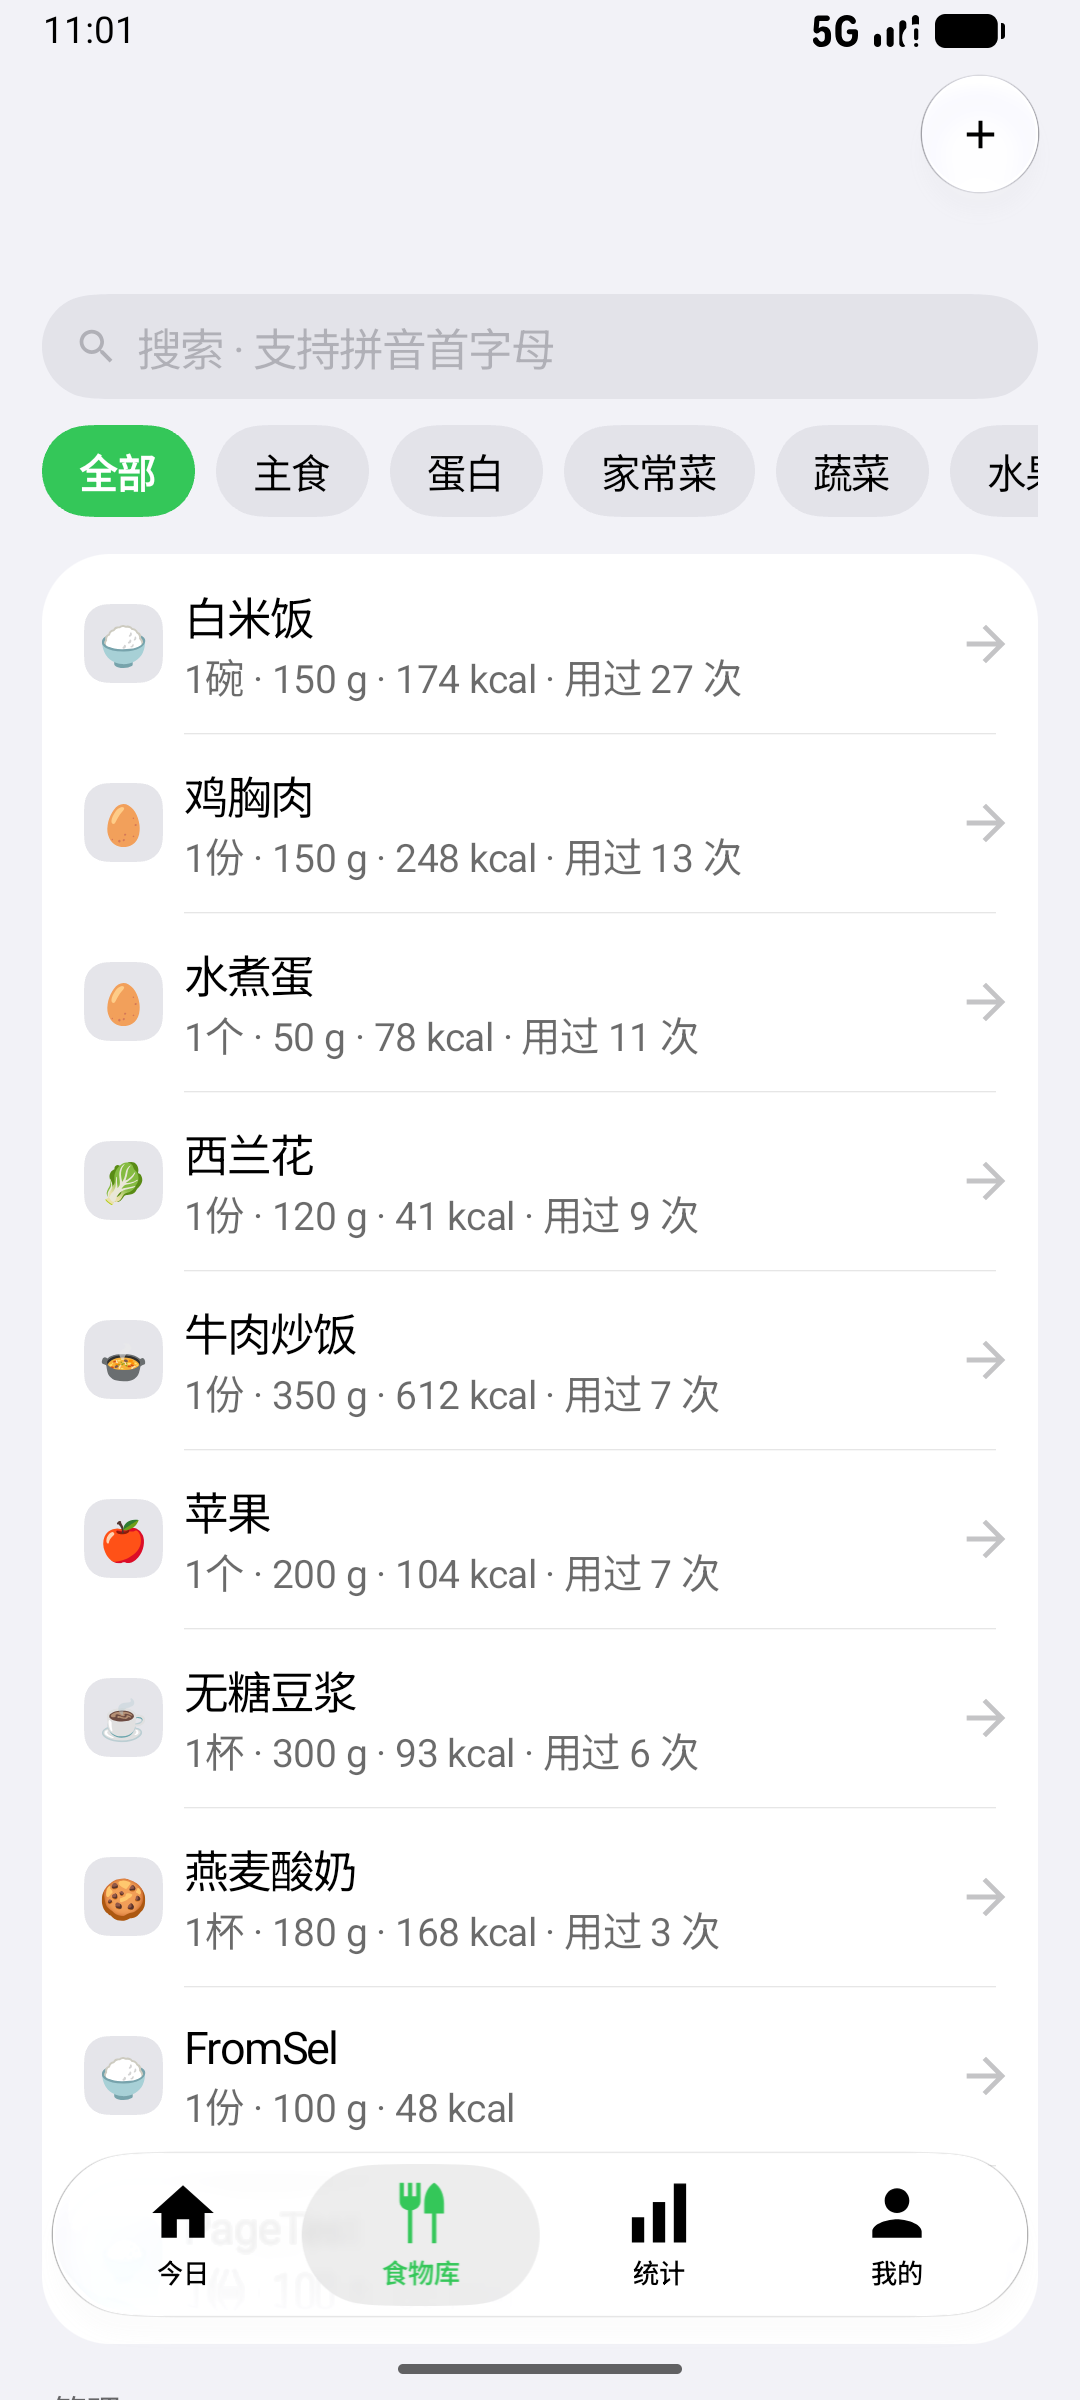
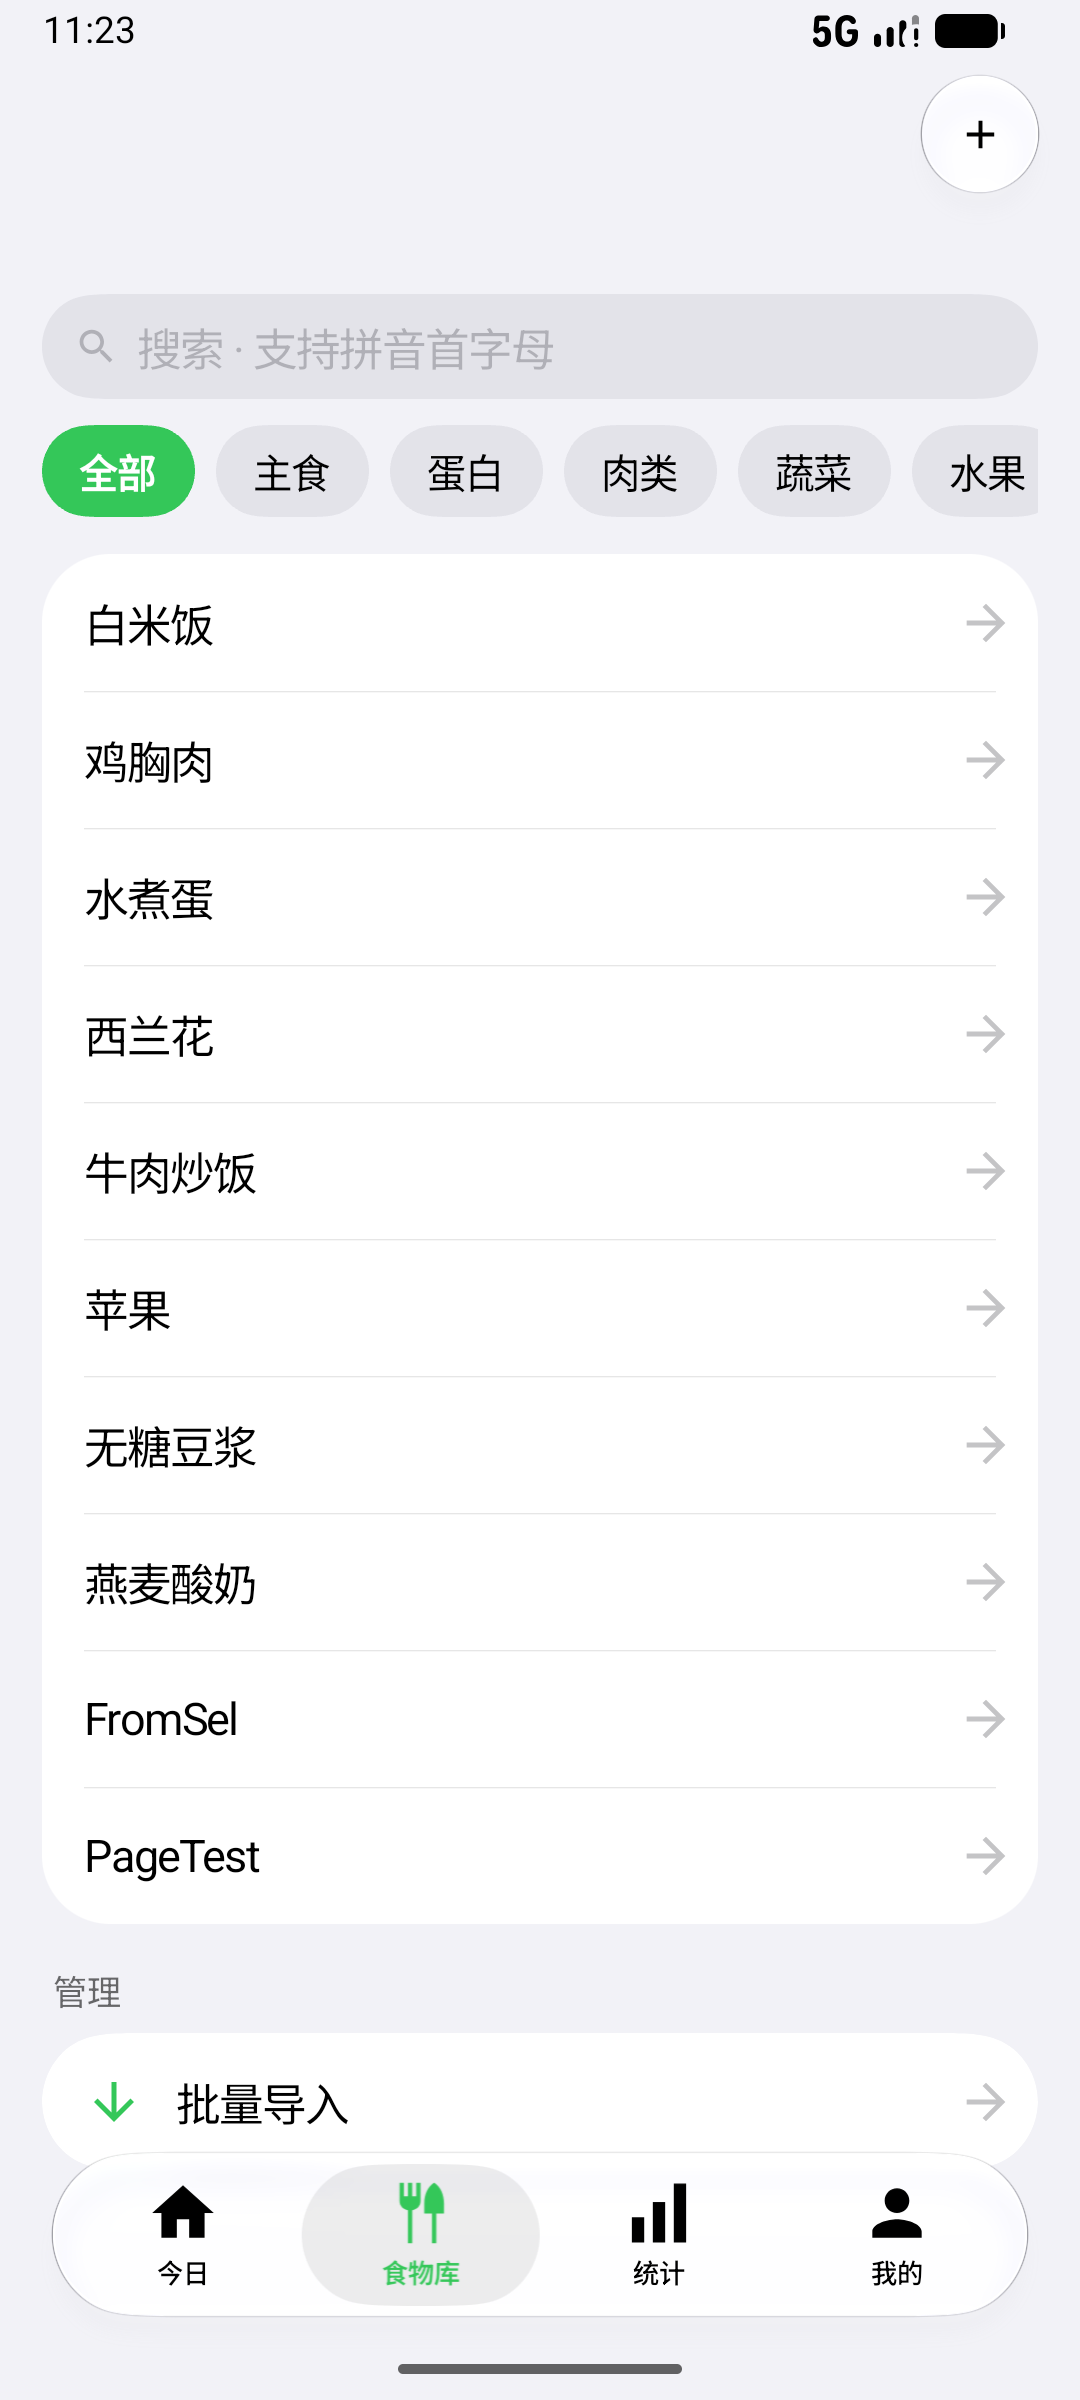
记录份量改回二级页面，精简记录卡与食物库列表，分类家用菜改肉类
- 记录份量：改回同窗口二级页面（玻璃返回键 + 完成，内容垂直居中），
  不再用 Dialog 弹窗——关掉后底栏立刻恢复，不再卡一下
- 今日记录行：去掉菜次 emoji；卡片只显示食物名 + 份量，热量/宏量营养点进去看
- 食物库列表：去掉分类图标和「单位/克数/kcal/用过 N 次」副标题，只留食物名
- 分类「家常菜」改名「肉类」（图标 🍖）；老存档里的「家常菜」在读档时自动迁移
- README 与截图同步

diff --git a/app/src/main/java/com/fitlog/app/ui/sheets/FoodSheets.kt b/app/src/main/java/com/fitlog/app/ui/sheets/FoodSheets.kt
@@ -3,6 +3,8 @@ package com.fitlog.app.ui.sheets
 import androidx.compose.foundation.background
 import androidx.compose.foundation.clickable
 import androidx.compose.foundation.layout.Arrangement
+import androidx.compose.foundation.rememberScrollState
+import androidx.compose.foundation.verticalScroll
 import androidx.compose.foundation.layout.Box
 import androidx.compose.foundation.layout.Column
 import androidx.compose.foundation.layout.ColumnScope
@@ -624,6 +626,7 @@ fun EntrySheet(
     onDismiss: () -> Unit,
     onDelta: (Double) -> Unit,
     onDelete: () -> Unit,
+    pageMode: Boolean = false,
 ) {
     val colors = GlasmioTheme.colors
     val kcal = sheet.per.kcal * sheet.qty
@@ -687,22 +690,52 @@ fun EntrySheet(
         }
     }
 
-    // 记录份量保持弹窗：只是改一个数字，弹窗比整页更轻
-    GlasmioBottomSheet(
-        visible = visible,
-        onDismissRequest = onDismiss,
-        fitContent = true,
-        title = sheet.name,
-        topBar = {
-            GlasmioSheetTopToolbar(
-                title = sheet.name,
-                actions = {
-                    GlasmioSheetButton(onClick = onDismiss) { Text("完成") }
-                },
-            )
-        },
-    ) {
-        body()
+    if (pageMode) {
+        // 二级页面：弹窗开关会新开一个窗口，底栏要等它关完才回来，翻记录时明显卡一下
+        GlasmioPinnedPage(
+            navigateBackContentDescription = "返回",
+            title = sheet.name,
+            onNavigateBack = onDismiss,
+            actions = {
+                GlasmioButton(onClick = onDismiss, size = GlasmioButtonSize.Small) {
+                    Text("完成")
+                }
+            },
+        ) { padding ->
+            // 整块内容垂直居中：这页只有「份量 + 概览 + 删除」，贴着顶栏反而显得空
+            CompositionLocalProvider(
+                LocalGlasmioSheetContentPadding provides PaddingValues(
+                    top = padding.calculateTopPadding(),
+                    bottom = padding.calculateBottomPadding(),
+                ),
+            ) {
+                Column(
+                    Modifier
+                        .fillMaxSize()
+                        .verticalScroll(rememberScrollState()),
+                    verticalArrangement = Arrangement.Center,
+                ) {
+                    body()
+                }
+            }
+        }
+    } else {
+        GlasmioBottomSheet(
+            visible = visible,
+            onDismissRequest = onDismiss,
+            fitContent = true,
+            title = sheet.name,
+            topBar = {
+                GlasmioSheetTopToolbar(
+                    title = sheet.name,
+                    actions = {
+                        GlasmioSheetButton(onClick = onDismiss) { Text("完成") }
+                    },
+                )
+            },
+        ) {
+            body()
+        }
     }
 }
 

diff --git a/app/src/main/java/com/fitlog/app/ui/screens/LibraryScreen.kt b/app/src/main/java/com/fitlog/app/ui/screens/LibraryScreen.kt
@@ -127,11 +127,6 @@ fun LibraryScreen(
             itemsIndexed(visible, key = { _, food -> food.id }) { index, food ->
                 GlasmioListRow(
                     title = food.name,
-                    // 有克数时一并显示，录入时按每 100 g 折算的，用户能顺手核对一遍
-                    subtitle = "1${food.unit}" +
-                        food.gram?.takeIf { it > 0 }?.let { " · ${it.pretty()} g" }.orEmpty() +
-                        " · ${food.kcal.roundToInt()} kcal" +
-                        if (food.uses > 0) " · 用过 ${food.uses} 次" else "",
                     showTopSeparator = index > 0,
                     onClick = { onEdit(food.id) },
                     modifier = Modifier.glasmioGroupedListBackground(
@@ -140,17 +135,7 @@ fun LibraryScreen(
                             isLast = index == visible.lastIndex,
                         ),
                     ),
-                    leading = {
-                        Box(
-                            Modifier
-                                .size(30.dp)
-                                .clip(ContinuousRoundedRectangle(9.dp))
-                                .background(GlasmioTheme.colors.systemGray5),
-                            contentAlignment = Alignment.Center,
-                        ) {
-                            Text(Cats.icon(food.cat), fontSize = 15.sp)
-                        }
-                    },
+                    leading = null,
                 )
             }
         }
@@ -168,6 +153,5 @@ fun LibraryScreen(
                 }
             }
         }
-
     }
 }

diff --git a/app/src/main/java/com/fitlog/app/data/AppCodec.kt b/app/src/main/java/com/fitlog/app/data/AppCodec.kt
@@ -28,7 +28,20 @@ object AppCodec {
      */
     fun decode(text: String): AppData? {
         val normalized = text.replace("\"gram\":\"\"", "\"gram\":null")
-        return runCatching { json.decodeFromString(AppData.serializer(), normalized) }.getOrNull()
+        return runCatching { json.decodeFromString(AppData.serializer(), normalized) }
+            .getOrNull()
+            ?.let(::migrateCategories)
+    }
+
+    /**
+     * 分类改名：老存档里的「家常菜」统一迁到「肉类」。
+     * 只改食物自己的分类，不动历史记录（记录里存的是当时算好的营养值）。
+     */
+    private fun migrateCategories(data: AppData): AppData {
+        if (data.foods.none { it.cat == LEGACY_MEAT }) return data
+        return data.copy(
+            foods = data.foods.map { if (it.cat == LEGACY_MEAT) it.copy(cat = "肉类") else it },
+        )
     }
 
     /** 解析失败时退回空数据，避免一条脏数据让应用打不开。 */
@@ -40,6 +53,9 @@ object AppCodec {
      * 直接拿去 replace 就等于把用户所有记录清空了，还提示「已恢复备份」。
      */
     private val BACKUP_KEYS = setOf("foods", "logs", "weights", "profile", "meta")
+
+    /** 分类改名前的旧值：老存档里的「家常菜」自动迁到「肉类」 */
+    private const val LEGACY_MEAT = "家常菜"
 
     /** 导入专用：既解析得动，也确认它确实是一份备份。 */
     fun decodeBackup(text: String): AppData? {

diff --git a/app/src/main/java/com/fitlog/app/ui/screens/TodayScreen.kt b/app/src/main/java/com/fitlog/app/ui/screens/TodayScreen.kt
@@ -131,8 +131,6 @@ private fun MealSection(
                 .padding(start = 4.dp, end = 4.dp, bottom = 7.dp),
             verticalAlignment = Alignment.CenterVertically,
         ) {
-            Text(meal.emoji, fontSize = 13.sp)
-            Spacer(Modifier.width(6.dp))
             Text(meal.label, style = IosTypography.footnote, color = colors.secondaryContent)
             Spacer(Modifier.width(8.dp))
             if (mealKcal > 0) {
@@ -156,8 +154,7 @@ private fun MealSection(
                 entries.forEachIndexed { index, entry ->
                     GlasmioListRow(
                         title = entry.name,
-                        subtitle = "${entry.qty.pretty()}${entry.unit} · 蛋白 ${entry.p.pretty()}g",
-                        detail = "${entry.kcal.roundToInt()} kcal",
+                        subtitle = "${entry.qty.pretty()}${entry.unit}",
                         showTopSeparator = index > 0,
                         onClick = { onEntryClick(entry) },
                     )

diff --git a/app/src/main/java/com/fitlog/app/data/Models.kt b/app/src/main/java/com/fitlog/app/data/Models.kt
@@ -96,13 +96,13 @@ enum class Meal(val id: String, val label: String) {
 
 object Cats {
     const val ALL = "全部"
-    val list = listOf("主食", "蛋白", "家常菜", "蔬菜", "水果", "饮品", "零食")
+    val list = listOf("主食", "蛋白", "肉类", "蔬菜", "水果", "饮品", "零食")
     val filters = listOf(ALL) + list
 
     fun icon(cat: String): String = when (cat) {
         "主食" -> "🍚"
         "蛋白" -> "🥚"
-        "家常菜" -> "🍲"
+        "肉类" -> "🍖"
         "蔬菜" -> "🥬"
         "水果" -> "🍎"
         "饮品" -> "☕"

diff --git a/app/src/main/java/com/fitlog/app/ui/FitLogApp.kt b/app/src/main/java/com/fitlog/app/ui/FitLogApp.kt
@@ -347,6 +347,7 @@ private fun SheetPageArea(vm: AppViewModel, data: AppData) {
             is Sheet.Entry -> EntrySheet(
                 sheet = current,
                 visible = true,
+                pageMode = true,
                 onDismiss = { vm.closeSheet() },
                 onDelta = { vm.changeEntryQty(it) },
                 onDelete = { vm.deleteEntry(current.date, current.entryId) },

diff --git a/README.md b/README.md
@@ -341,6 +341,7 @@ AGP 9.0 起内置 Kotlin 支持，**不再需要** `org.jetbrains.kotlin.android
 | 食物库 | 新建/编辑/删除、七个分类、按使用频次排序、按营养表（能量填 kJ、每 100 g）+ 实际克数自动折算、批量粘贴导入（支持 `485kj`）、空库引导建第一个 |
 | 统计 | 月历（每天标出当日热量，可一直往回翻）、点某天看当日详情（与今日页同一套四圈环，不重复列餐次）、体重折线、记体重 |
 | 我的 | 一级只有「目标」「设置」两行（无标题、图标、副标题）；目标页只读展示每日目标（蛋白/碳水/脂肪各一行，身高体重分两格）与身体消耗；设置页放修改资料、备份地址、导出/导入和上次备份时间 |
+| 记录卡 | 今日的记录行只显示「食物名 + 份量」，热量/蛋白等点进记录页查看；食物库列表只留食物名，分类里「家常菜」改名为「肉类」（老数据自动迁移） |
 | 体验 | 深浅色跟随系统、底栏随滚动收缩、二级页面玻璃顶栏 + 水平推入、键盘弹起时表单自动上移 |
 
 ### 用起来要知道的三件事
@@ -392,6 +393,7 @@ AGP 9.0 起内置 Kotlin 支持，**不再需要** `org.jetbrains.kotlin.android
 | 非法输入 | 能量填 `12.5.3` 保存时红字提示「营养值只能填数字」，不会再静默存成 0 |
 | 删除记录 | 删掉一条后提示条右侧出现「撤销」，几秒内点一下能原位恢复（不是排到最后） |
 | 二级页面打开 | 同条件首帧：新建食物 350 ms（原 Dialog 弹窗 750 ms，其中 layout 467 ms）；选择食物/记录份量/批量导入/资料 全部按页面打开，含键盘弹起 |
+| 记录份量返回 | 记录份量也改成了二级页面：关掉后底栏立刻恢复，不再等弹窗窗口销毁（原来会卡一下） |
 | 圆环单位 | 数值行只放「已吃/目标」，单位挪到标签行「热量（千卡）」；字体调大、窄屏都不会再把单位挤出卡片 |
 | 每周速度 | 0.25 / 0.5 / 0.75 三档都能选中并高亮（之前 0.75 因为 `trimNumber` 四舍五入成 0.8 永远选不中） |
 | 跨零点 | 挂后台跨天回来，停在「今天」时自动顺延到新的一天；手动翻到历史日期则保持不动（判断逻辑有单测） |
